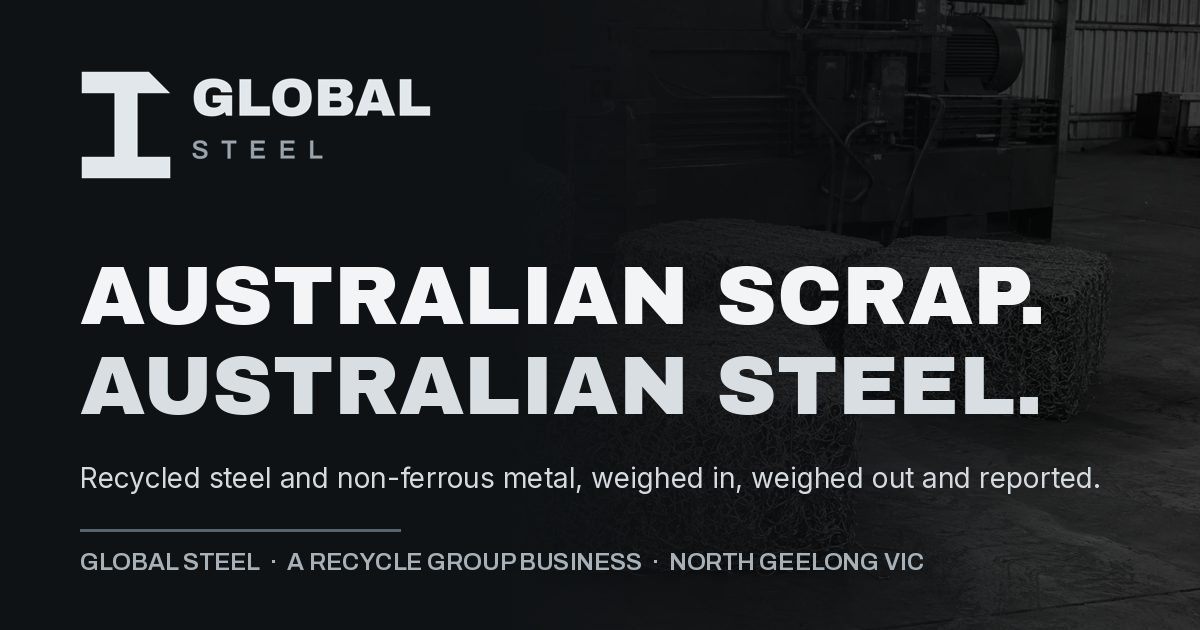
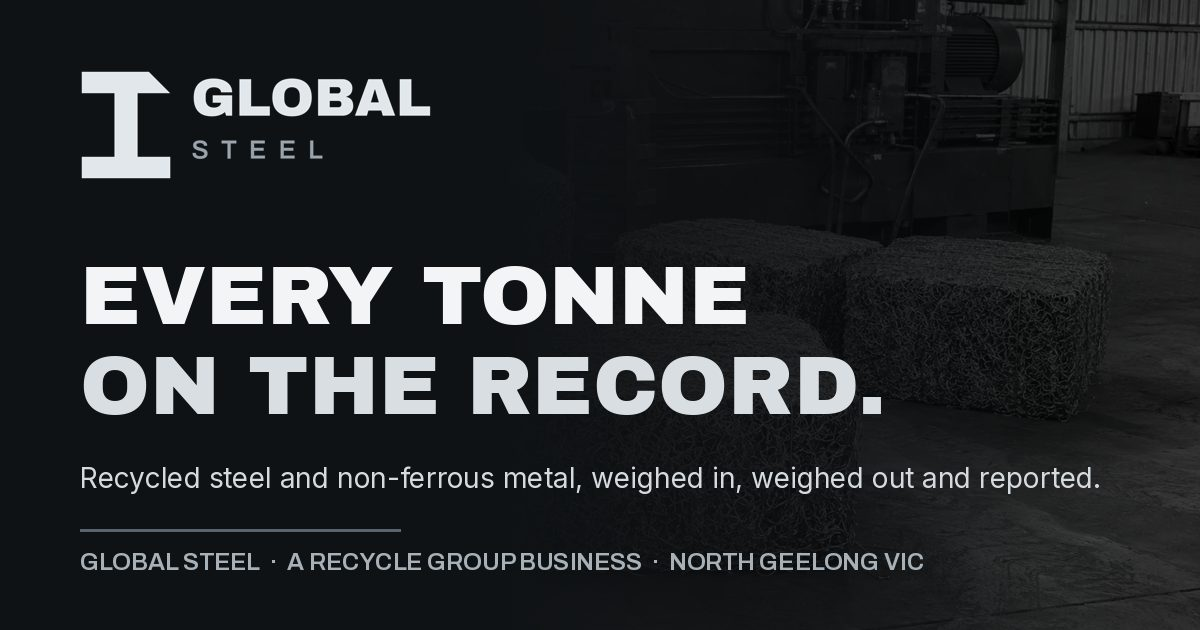
New line: share image, hero css

Changed region(s): [[0.0617, 0.5429, 0.8633, 0.6635], [0.0617, 0.4222, 0.5242, 0.5127], [0.555, 0.4222, 0.8942, 0.5127]]

diff --git a/assets/main.css b/assets/main.css
@@ -111,7 +111,7 @@ body.nav-open .nav-cta{margin:28px 0 0;font-size:20px;min-height:56px}
 .hero-map .hero-media{opacity:.28}
 .hero-map::before{background:linear-gradient(180deg,rgba(14,17,19,.6) 0%,rgba(14,17,19,.75) 60%,rgba(14,17,19,.98) 100%)}
 .hero-map .hero-grid{display:grid;gap:36px;align-items:center;padding-top:56px;padding-bottom:0}
-.hero-map .hero-copy h1{max-width:12ch;font-size:clamp(44px,7.5vw,84px)}
+.hero-map .hero-copy h1{max-width:14ch;font-size:clamp(44px,7.5vw,84px)}
 .hero-map-wrap{position:relative}
 .hero-map-wrap svg{width:100%;height:auto;max-width:600px;margin:0 auto;display:block;filter:drop-shadow(0 20px 40px rgba(0,0,0,.5))}
 .hero-map .wrap:last-child{padding-bottom:40px}
